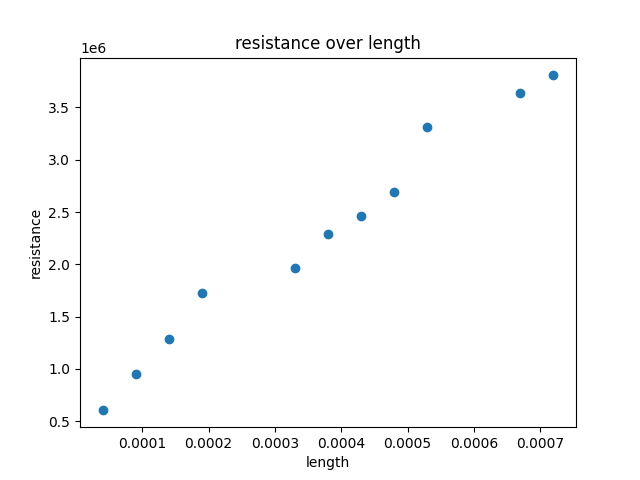
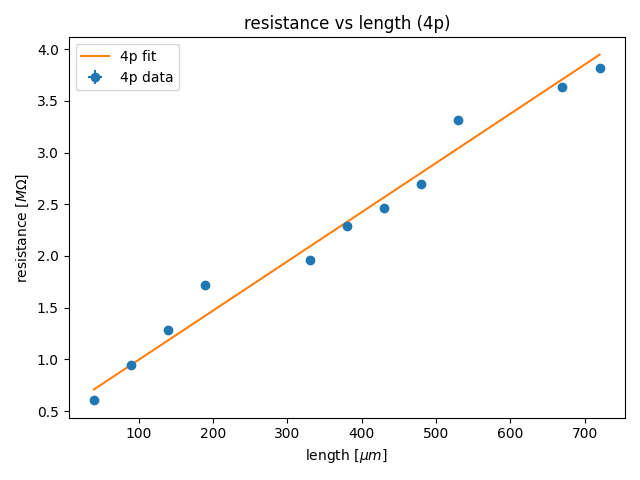
some fixes

diff --git a/analise.py b/analise.py
@@ -50,7 +50,7 @@ def linear_fit(x, y):
             if len(d) < 1:
                 return None, None
             if not isinstance(d[0], u.UFloat):
-                d = unp.uarray(d, 1e-9*np.ones(len(d)))
+                d = unp.uarray(d, np.zeros(len(d)))
             else:
                 d = np.array(d)
 
@@ -327,6 +327,7 @@ if __name__ == "__main__":
         ["length", "conductivity"],
     ]
     modes = ['2p', '4p']
+    # modes = ['4p']
     to_compute = np.unique(np.array(couples).flatten())
 
     qd, segments = compute_quantities(data_dir, to_compute, modes=modes, verbosity=verbosity)
@@ -339,14 +340,10 @@ if __name__ == "__main__":
         p("\nresistivity:", resistivity)
         p("conductivity:", conductivity)
 
-    for i, segment in enumerate(segments['2p']):
-        contact_resistance = qd['2p']['resistance'][i] - qd['4p']['resistance'][i]
-        p("segment", segment, "resistance:", contact_resistance)
-
     factor = {
         'length': 1e6,
         'resistance': 1e-6,
-        'conductivity': 1e2,
+        'conductivity': 1e-2,
     }
     label = {
         'length': r'length [$\mu m$]',
@@ -356,6 +353,8 @@ if __name__ == "__main__":
 
     for qx, qy in couples:
         fig, axs = plt.subplots(len(modes), 1)
+        if len(modes) == 1:
+            axs = [axs]
         for i, mode in enumerate(modes):
             axs[i].set_title(f"{qy} vs {qx} ({mode})")
             x = unp.nominal_values(qd[mode][qx])
@@ -381,5 +380,29 @@ if __name__ == "__main__":
             axs[i].set_ylabel(label[qy])
             axs[i].legend()
         res_image = os.path.join(res_dir, f"{qy}_vs_{qx}.png")
+        plt.tight_layout()
+        plt.savefig(res_image)
+
+    if '2p' in modes and '4p' in modes:
+        contact_resistance = []
+        for i, segment in enumerate(segments['2p']):
+            contact_resistance.append(qd['2p']['resistance'][i] - qd['4p']['resistance'][i])
+        contact_resistance = np.array(contact_resistance)
+
+        fig, ax = plt.subplots()
+        ax.set_title("2p-4p resistance vs length")
+        x = unp.nominal_values(qd['2p']['length'])
+        y = unp.nominal_values(contact_resistance)
+        dx = unp.std_devs(qd['2p']['length'])
+        dy = unp.std_devs(contact_resistance)
+        ax.errorbar(
+            x * factor['length'],
+            y * factor['resistance'],
+            xerr=dx * factor['length'],
+            yerr=dy * factor['resistance'],
+            fmt='o')
+        ax.set_xlabel(label['length'])
+        ax.set_ylabel(label['resistance'])
+        res_image = os.path.join(res_dir, f"{'4p-2p-resistance'}_vs_{'length'}.png")
         plt.tight_layout()
         plt.savefig(res_image)
